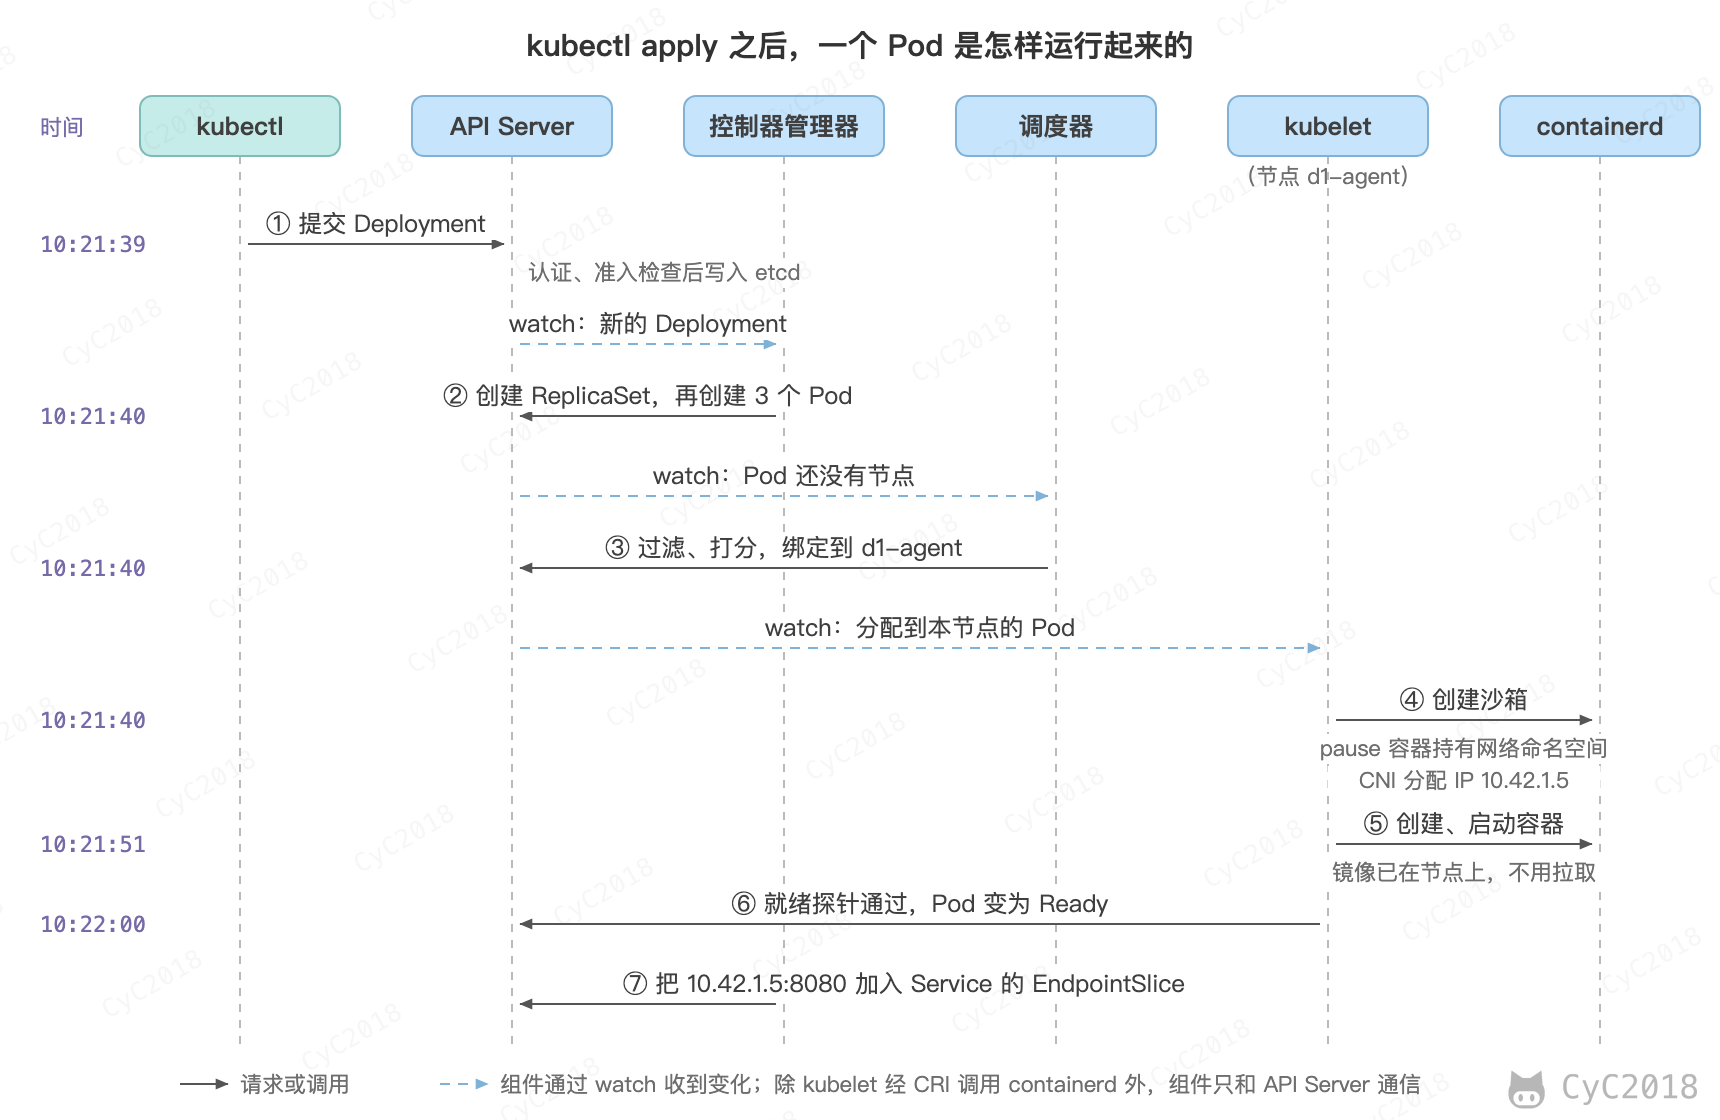
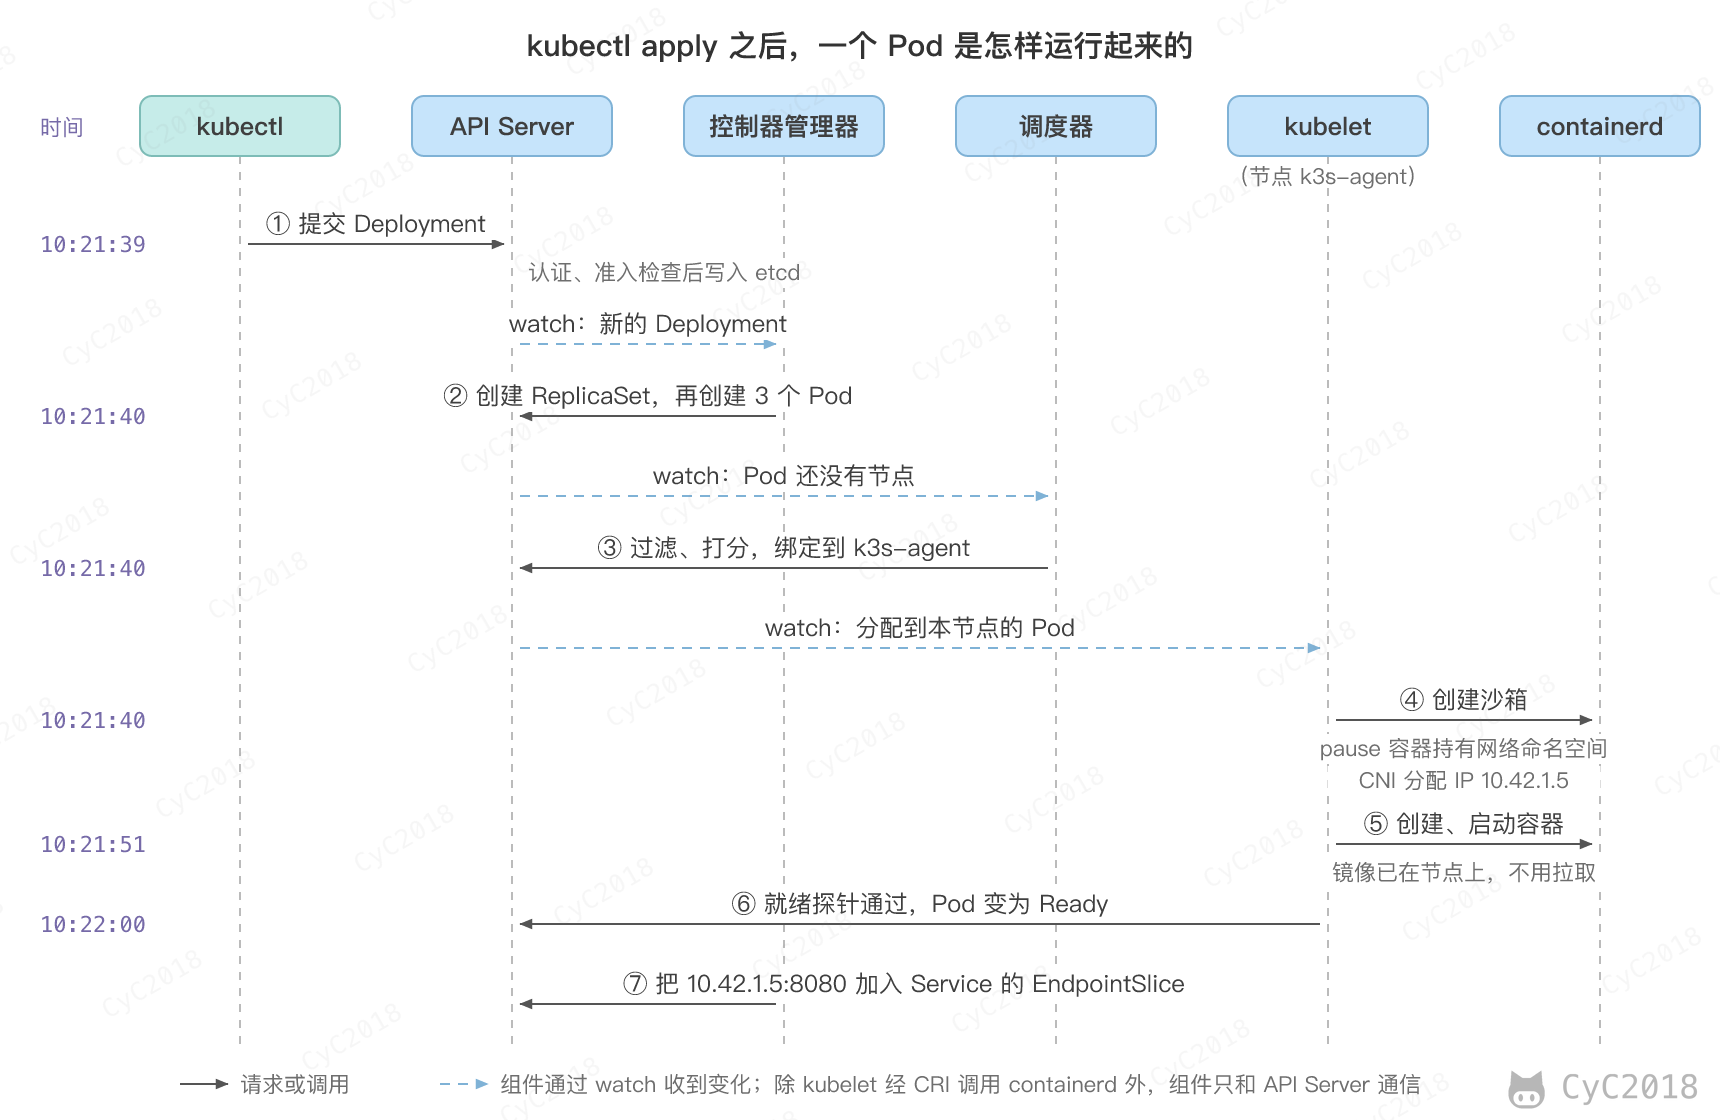
Update Docker.md
调整 Kubernetes 示例中的资源名称并重新绘制两张配图；Pending 状态按官方文档补充等待调度和拉取镜像两种情况。

diff --git a/notes/Docker.md b/notes/Docker.md
@@ -328,14 +328,14 @@ readinessProbe 是就绪探针：Pod 启动后要通过检查才会加入 Servic
 
 ### Pod 的创建过程
 
-K8s 的各组件不直接互相调用，而是都通过 API Server 协作：每个组件监听（watch）自己关心的对象，发现实际状态与期望不一致就采取行动，再把结果写回 API Server。以订单服务中被调度到节点 d1-agent 的一个 Pod 为例：
+K8s 的各组件不直接互相调用，而是都通过 API Server 协作：每个组件监听（watch）自己关心的对象，发现实际状态与期望不一致就采取行动，再把结果写回 API Server。以订单服务中被调度到节点 k3s-agent 的一个 Pod 为例：
 
 <div align="center"> <img src="pics/k8s-pod-create.png" width="860px"/> </div><br>
 
 1. kubectl 把 Deployment 发给 API Server，API Server 完成认证、鉴权和准入检查后写入 etcd；
 2. 控制器管理器中的 Deployment 控制器发现新的 Deployment，创建 ReplicaSet；ReplicaSet 控制器发现副本数不足，创建 3 个 Pod 对象，这时的 Pod 还没有指定节点；
-3. 调度器发现未调度的 Pod，先过滤掉不满足条件的节点（资源不足、有不能容忍的污点等），再给剩下的节点打分，选出 d1-agent 写入 Pod 的 nodeName；
-4. d1-agent 上的 kubelet 发现分配给自己的 Pod，通过容器运行时接口（Container Runtime Interface, CRI）让 containerd 创建 Pod 沙箱：先启动一个 pause 容器持有网络命名空间，再调用 CNI 插件为它配置网卡、分配 IP 10.42.1.5；Pod 声明了存储卷时，还会通过 CSI 插件把卷挂载到节点上；
+3. 调度器发现未调度的 Pod，先过滤掉不满足条件的节点（资源不足、有不能容忍的污点等），再给剩下的节点打分，选出 k3s-agent 写入 Pod 的 nodeName；
+4. k3s-agent 上的 kubelet 发现分配给自己的 Pod，通过容器运行时接口（Container Runtime Interface, CRI）让 containerd 创建 Pod 沙箱：先启动一个 pause 容器持有网络命名空间，再调用 CNI 插件为它配置网卡、分配 IP 10.42.1.5；Pod 声明了存储卷时，还会通过 CSI 插件把卷挂载到节点上；
 5. kubelet 拉取镜像（这里镜像已在节点上），创建并启动容器；
 6. kubelet 执行探针，就绪探针通过后把 Pod 的状态更新为 Ready；
 7. EndpointSlice 控制器把 10.42.1.5:8080 加入 order-service 的后端，各节点的 kube-proxy 随之更新转发规则。
@@ -389,13 +389,13 @@ Ingress 只是规则，真正处理请求的是 Ingress 控制器，例如 Traef
 
 需要注意的是，Ingress 控制器通常不经过 Service 的虚拟 IP，而是从 EndpointSlice 取得 Pod 的地址后直接转发给 Pod（Traefik 的默认行为），Service 在这里只用来找到后端。Ingress API 已经冻结，不再增加新功能，新功能加在它的后继 Gateway API 中。
 
-Pod 之间的通信由 CNI 插件实现。K8s 的网络模型要求每个 Pod 有集群内唯一的 IP，任意两个 Pod 不经过 NAT 就能直接通信。k3s 默认的 Flannel 给每个节点分配一个网段（实验中 d1-server 上的 Pod 是 10.42.0.x，d1-agent 上的是 10.42.1.x），跨节点的包用 VXLAN 封装后经节点之间的网络发送。
+Pod 之间的通信由 CNI 插件实现。K8s 的网络模型要求每个 Pod 有集群内唯一的 IP，任意两个 Pod 不经过 NAT 就能直接通信。k3s 默认的 Flannel 给每个节点分配一个网段（实验中 k3s-server 上的 Pod 是 10.42.0.x，k3s-agent 上的是 10.42.1.x），跨节点的包用 VXLAN 封装后经节点之间的网络发送。
 
 ### Pod 异常状态的排查
 
 Pod 的阶段（phase）只有 Pending、Running、Succeeded、Failed、Unknown 五种，kubectl get pods 的 STATUS 一栏显示得更细。常见的异常状态（k3s 实测，见[附录 A8](#a8-pod-的异常状态)）：
 
-- Pending：Pod 还没有调度到节点上。describe 的事件中有 FailedScheduling 时是调度失败，例如申请 20 个 CPU 时为 0/2 nodes are available: 2 Insufficient cpu；两个节点都有污点 dedicated=db:NoSchedule、Pod 没有对应的容忍时为 2 node(s) had untolerated taint；Pod 使用的 PVC 没有绑定到存储卷时也会停在这里；
+- Pending：Pod 已被集群接受，但还有容器没有创建并运行起来，包括等待调度和拉取镜像的时间。describe 的事件中有 FailedScheduling 时是调度失败，例如申请 20 个 CPU 时为 0/2 nodes are available: 2 Insufficient cpu；两个节点都有污点 dedicated=db:NoSchedule、Pod 没有对应的容忍时为 2 node(s) had untolerated taint；Pod 使用的 PVC 没有绑定到存储卷时也会停在这里；
 - ImagePullBackOff：拉取镜像失败，常见原因是镜像名或标签写错、私有仓库没有配置凭证（imagePullSecrets）、节点访问不了镜像仓库，kubelet 在 ErrImagePull 和 ImagePullBackOff 之间反复重试；
 - CrashLoopBackOff：容器启动后反复退出，kubelet 每次重启前的等待时间按 10 秒、20 秒、40 秒翻倍，最长 5 分钟。kubectl logs --previous 查看上一次退出前的日志，例如把 server.port 写成 abc 时，日志中是 APPLICATION FAILED TO START 和具体的配置错误，退出码 1；
 - OOMKilled：容器超过内存上限被内核杀掉，退出码 137，之后同样进入 CrashLoopBackOff。例如内存上限 256 MiB，JVM 堆却设为 300 MB 并在启动时全部占用，Java 应用的堆和堆外内存加起来要小于 limits；
@@ -403,7 +403,7 @@ Pod 的阶段（phase）只有 Pending、Running、Succeeded、Failed、Unknown 
 
 排查的顺序通常是：kubectl get pods -o wide 看状态、重启次数和所在节点；kubectl describe pod 看事件；kubectl logs 看应用日志，容器重启过的加 --previous；kubectl exec 进入容器检查配置和网络；kubectl top pod 看资源占用（需要 metrics-server）。
 
-节点 NotReady 指控制平面一段时间没有收到节点上 kubelet 的心跳，这个时间由 node-monitor-grace-period 决定（v1.31 默认 40 秒，v1.32 起 50 秒）。停掉工作节点 d1-agent 后 32 秒，它变为 NotReady（kubelet 约每 10 秒续约一次心跳，宽限期从最后一次心跳算起，所以比 40 秒短），Conditions 中是 Kubelet stopped posting node status，并被加上 node.kubernetes.io/unreachable 污点；上面的 Pod 同时被标记为未就绪，从 Service 的后端中摘除。Pod 默认容忍这个污点 300 秒，又过了约 5 分钟才被驱逐，Deployment 在 d1-server 上补足了副本（见[附录 A9](#a9-节点-notready)）。
+节点 NotReady 指控制平面一段时间没有收到节点上 kubelet 的心跳，这个时间由 node-monitor-grace-period 决定（v1.31 默认 40 秒，v1.32 起 50 秒）。停掉工作节点 k3s-agent 后 32 秒，它变为 NotReady（kubelet 约每 10 秒续约一次心跳，宽限期从最后一次心跳算起，所以比 40 秒短），Conditions 中是 Kubelet stopped posting node status，并被加上 node.kubernetes.io/unreachable 污点；上面的 Pod 同时被标记为未就绪，从 Service 的后端中摘除。Pod 默认容忍这个污点 300 秒，又过了约 5 分钟才被驱逐，Deployment 在 k3s-server 上补足了副本（见[附录 A9](#a9-节点-notready)）。
 
 排查 NotReady 时先用 kubectl describe node 看 Conditions：
 
@@ -601,16 +601,16 @@ $ docker inspect -f '{{.Name}} started {{.State.StartedAt}}' shop-mysql-1 shop-o
 
 ### A5 部署、自愈与滚动升级
 
-两个节点的 k3s v1.31.4：server 节点 d1-server（控制平面兼工作节点）和 agent 节点 d1-agent 各运行在一个 Docker 特权容器中，容器内不能再用 OverlayFS，containerd 使用 native 快照（--snapshotter native）。订单服务的 1.0、1.1 两个镜像用 docker save 导出后导入两个节点的 containerd。
+两个节点的 k3s v1.31.4：server 节点 k3s-server（控制平面兼工作节点）和 agent 节点 k3s-agent 各运行在一个 Docker 特权容器中，容器内不能再用 OverlayFS，containerd 使用 native 快照（--snapshotter native）。订单服务的 1.0、1.1 两个镜像用 docker save 导出后导入两个节点的 containerd。
 
 ```text
 $ kubectl apply -f order.yaml
 all ready after 21.1 s
 $ kubectl get pods -o wide
 NAME                             READY   STATUS    RESTARTS   AGE   IP          NODE
-order-service-5ccc589fd8-b76g2   1/1     Running   0          20s   10.42.1.5   d1-agent
-order-service-5ccc589fd8-vb2lx   1/1     Running   0          20s   10.42.1.4   d1-agent
-order-service-5ccc589fd8-vz9hj   1/1     Running   0          20s   10.42.0.8   d1-server
+order-service-5ccc589fd8-b76g2   1/1     Running   0          20s   10.42.1.5   k3s-agent
+order-service-5ccc589fd8-vb2lx   1/1     Running   0          20s   10.42.1.4   k3s-agent
+order-service-5ccc589fd8-vz9hj   1/1     Running   0          20s   10.42.0.8   k3s-server
 $ kubectl get svc order-service
 NAME            TYPE        CLUSTER-IP     EXTERNAL-IP   PORT(S)   AGE
 order-service   ClusterIP   10.43.210.38   <none>        80/TCP    21s
@@ -628,7 +628,7 @@ $ kubectl delete pod/order-service-5ccc589fd8-b76g2
 new Pod object created after 0.34 s
 3/3 ready again after 11.2 s
 NAME                             READY   STATUS    RESTARTS   AGE     IP          NODE
-order-service-5ccc589fd8-494s9   1/1     Running   0          11s     10.42.0.9   d1-server
+order-service-5ccc589fd8-494s9   1/1     Running   0          11s     10.42.0.9   k3s-server
 ...
 NAME                  ADDRESSTYPE   PORTS   ENDPOINTS
 order-service-m2pjv   IPv4          8080    10.42.1.4,10.42.0.8,10.42.0.9
@@ -651,7 +651,7 @@ $ kubectl get events（Deployment 与 ReplicaSet 的事件，节选）
 2026-10-28T10:21:40Z   ReplicaSet   SuccessfulCreate    replicaset-controller   Created pod: order-service-5ccc589fd8-b76g2
 $ kubectl get events --field-selector involvedObject.name=order-service-5ccc589fd8-b76g2
 TIME                   REASON      FROM      MESSAGE
-<nil>                  Scheduled   <none>    Successfully assigned default/order-service-5ccc589fd8-b76g2 to d1-agent
+<nil>                  Scheduled   <none>    Successfully assigned default/order-service-5ccc589fd8-b76g2 to k3s-agent
 2026-10-28T10:21:40Z   Pulled      kubelet   Container image "order-service:1.0" already present on machine
 2026-10-28T10:21:51Z   Created     kubelet   Created container app
 2026-10-28T10:21:51Z   Started     kubelet   Started container app
@@ -687,7 +687,7 @@ mnt mnt:[4026534203]     mnt mnt:[4026534206]
 
 ### A7 Service 与 Ingress
 
-在 d1-agent 上查看 kube-proxy 写入的规则（节选）：
+在 k3s-agent 上查看 kube-proxy 写入的规则（节选）：
 
 ```text
 $ iptables-save -t nat | grep default/order-service
@@ -698,7 +698,7 @@ $ iptables-save -t nat | grep default/order-service
 -A KUBE-SEP-CRY6GKLRKVOMXZX4 -p tcp -m comment --comment "default/order-service" -m tcp -j DNAT --to-destination 10.42.0.8:8080
 ```
 
-正文中的 Ingress，k3s 自带的 Traefik 2.11 处理，在 d1-server 上访问节点 IP 的 80 端口：
+正文中的 Ingress，k3s 自带的 Traefik 2.11 处理，在 k3s-server 上访问节点 IP 的 80 端口：
 
 ```text
 $ kubectl get ingress shop
@@ -718,7 +718,7 @@ $ wget --header "Host: other.example.com" http://172.19.0.2/orders/1024
 $ kubectl patch svc order-service -p '{"spec":{"type":"NodePort"}}'
 NAME            TYPE       CLUSTER-IP     EXTERNAL-IP   PORT(S)        AGE
 order-service   NodePort   10.43.210.38   <none>        80:31887/TCP   103s
-$ wget -qO- http://172.19.0.3:31887/orders/1024   （在 d1-server 上访问 d1-agent 的 NodePort）
+$ wget -qO- http://172.19.0.3:31887/orders/1024   （在 k3s-server 上访问 k3s-agent 的 NodePort）
 {"status":"SHIPPED","id":1024,"host":"order-service-5ccc589fd8-b76g2"}
 ```
 
@@ -770,39 +770,39 @@ Failed to convert to type java.lang.Integer
 oom-demo 在第一次被杀之前 kubectl get pods 显示的状态是 OOMKilled。给两个节点都加上污点后创建 Pod：
 
 ```text
-$ kubectl taint nodes d1-server d1-agent dedicated=db:NoSchedule
+$ kubectl taint nodes k3s-server k3s-agent dedicated=db:NoSchedule
 $ kubectl run -n lab taint-demo --image=order-service:1.0
   Warning  FailedScheduling  5s  default-scheduler  0/2 nodes are available: 2 node(s) had untolerated taint {dedicated: db}. ...
-$ kubectl taint nodes d1-server d1-agent dedicated=db:NoSchedule-
-（8 秒后 taint-demo 在 d1-server 上 Running）
+$ kubectl taint nodes k3s-server k3s-agent dedicated=db:NoSchedule-
+（8 秒后 taint-demo 在 k3s-server 上 Running）
 ```
 
 ### A9 节点 NotReady
 
-用 docker stop 停掉 d1-agent 所在的容器，相当于节点宕机：
+用 docker stop 停掉 k3s-agent 所在的容器，相当于节点宕机：
 
 ```text
-10:28:55 $ docker stop d1-k3s-agent
-10:29:28 d1-agent NotReady after 32 s
+10:28:55 $ docker stop k3s-agent
+10:29:28 k3s-agent NotReady after 32 s
   Type             Status    LastTransitionTime                Reason              Message
   MemoryPressure   Unknown   Wed, 28 Oct 2026 18:29:27 +0800   NodeStatusUnknown   Kubelet stopped posting node status.
   DiskPressure     Unknown   Wed, 28 Oct 2026 18:29:27 +0800   NodeStatusUnknown   Kubelet stopped posting node status.
   PIDPressure      Unknown   Wed, 28 Oct 2026 18:29:27 +0800   NodeStatusUnknown   Kubelet stopped posting node status.
   Ready            Unknown   Wed, 28 Oct 2026 18:29:27 +0800   NodeStatusUnknown   Kubelet stopped posting node status.
 Taints:             node.kubernetes.io/unreachable:NoSchedule
-10:34:33 pods on d1-agent marked for deletion after 337 s
+10:34:33 pods on k3s-agent marked for deletion after 337 s
 NAME                             READY   STATUS        IP           NODE
-order-service-5ccc589fd8-24sqr   1/1     Terminating   10.42.1.8    d1-agent
-order-service-5ccc589fd8-2f56l   1/1     Terminating   10.42.1.9    d1-agent
-order-service-5ccc589fd8-2vrx4   1/1     Running       10.42.0.11   d1-server
-order-service-5ccc589fd8-4gzps   1/1     Running       10.42.0.17   d1-server
-order-service-5ccc589fd8-gzsbv   1/1     Running       10.42.0.16   d1-server
+order-service-5ccc589fd8-24sqr   1/1     Terminating   10.42.1.8    k3s-agent
+order-service-5ccc589fd8-2f56l   1/1     Terminating   10.42.1.9    k3s-agent
+order-service-5ccc589fd8-2vrx4   1/1     Running       10.42.0.11   k3s-server
+order-service-5ccc589fd8-4gzps   1/1     Running       10.42.0.17   k3s-server
+order-service-5ccc589fd8-gzsbv   1/1     Running       10.42.0.16   k3s-server
 $ kubectl get pod -o jsonpath='{.items[0].spec.tolerations}'
 [{"effect":"NoExecute","key":"node.kubernetes.io/not-ready","operator":"Exists","tolerationSeconds":300},
  {"effect":"NoExecute","key":"node.kubernetes.io/unreachable","operator":"Exists","tolerationSeconds":300}]
 ```
 
-节点失联后，Pod 无法确认已经停止，一直显示 Terminating。恢复 d1-agent、重新部署后再停一次，每 4 秒查看 EndpointSlice 中各地址的 ready：
+节点失联后，Pod 无法确认已经停止，一直显示 Terminating。恢复 k3s-agent、重新部署后再停一次，每 4 秒查看 EndpointSlice 中各地址的 ready：
 
 ```text
 +33s node=Ready endpoints: 10.42.0.19=true 10.42.1.14=true 10.42.1.13=true
